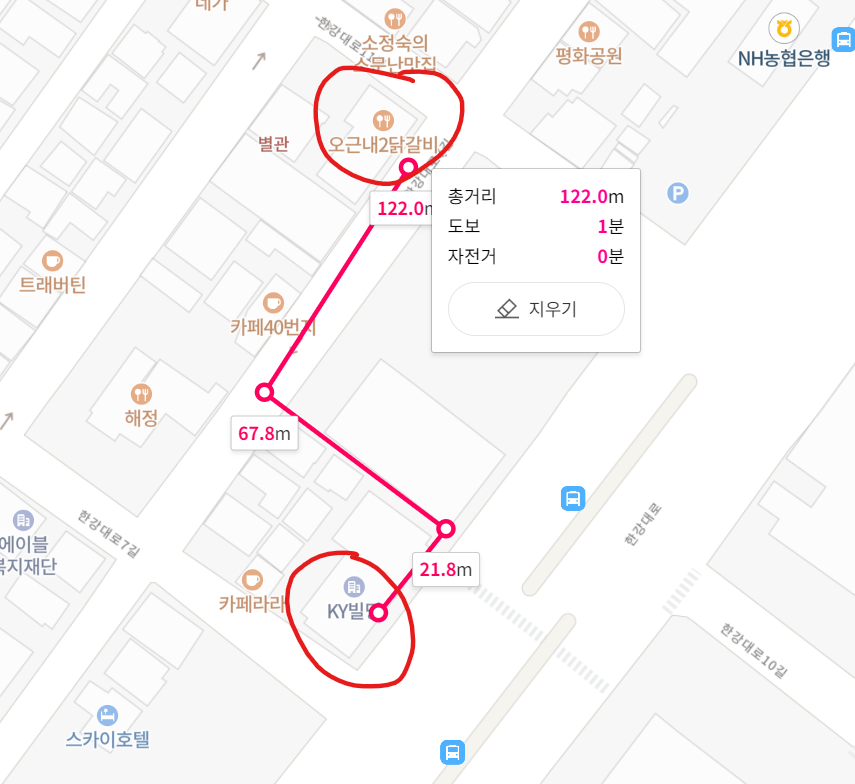
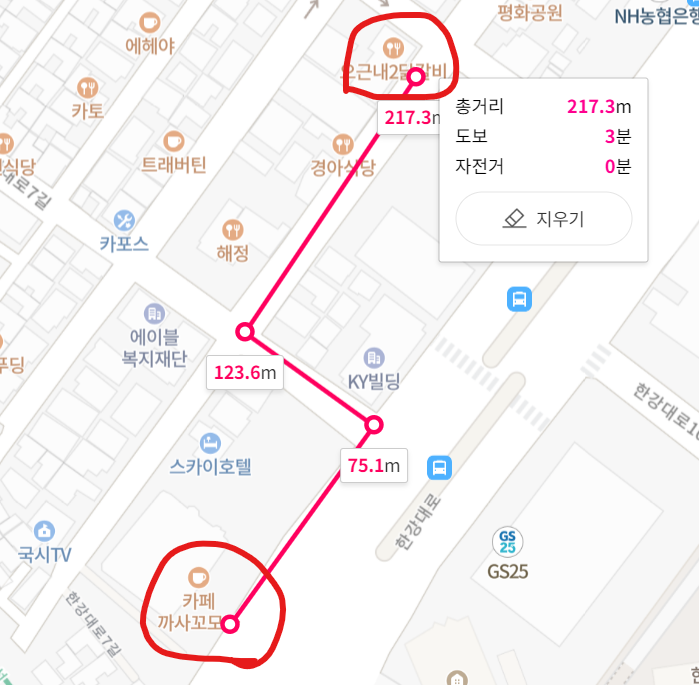
Replace home coming day place to cafe cassakomoda

diff --git a/README.md b/README.md
@@ -4,9 +4,12 @@
 
 ## Overview
 
-- 일시: 2022년 12월 17일 토요일 오후 3시 ~ 오후 7시 4시간
+- 일시: 2022년 12월 17일 토요일 오후 3시 ~ 오후 6시 20분, 3시간 20분
 - 장소: 서울시 용산구 한강대로 31, KY빌딩 1층 버넥트
 - 참가비: 없음
+- 다과
+  - 인당 1잔 이상 음료 제공
+  - 무제한 음식 제공
 - 일정
   - 간단한 자기 소개, 늦게 오신 분도 자기 소개 필수!
   - 발표자 신청하신 분들이 순서대로 발표하고 질문/답변 하는 시간 진행
@@ -15,6 +18,7 @@
 
 ![위치](place1.png)
 ![위치2](place2.png)
+![위치3](place3.png)
 ![저녁식사](dinner1.png)
 ![저녁식사](dinner2.png)
 
